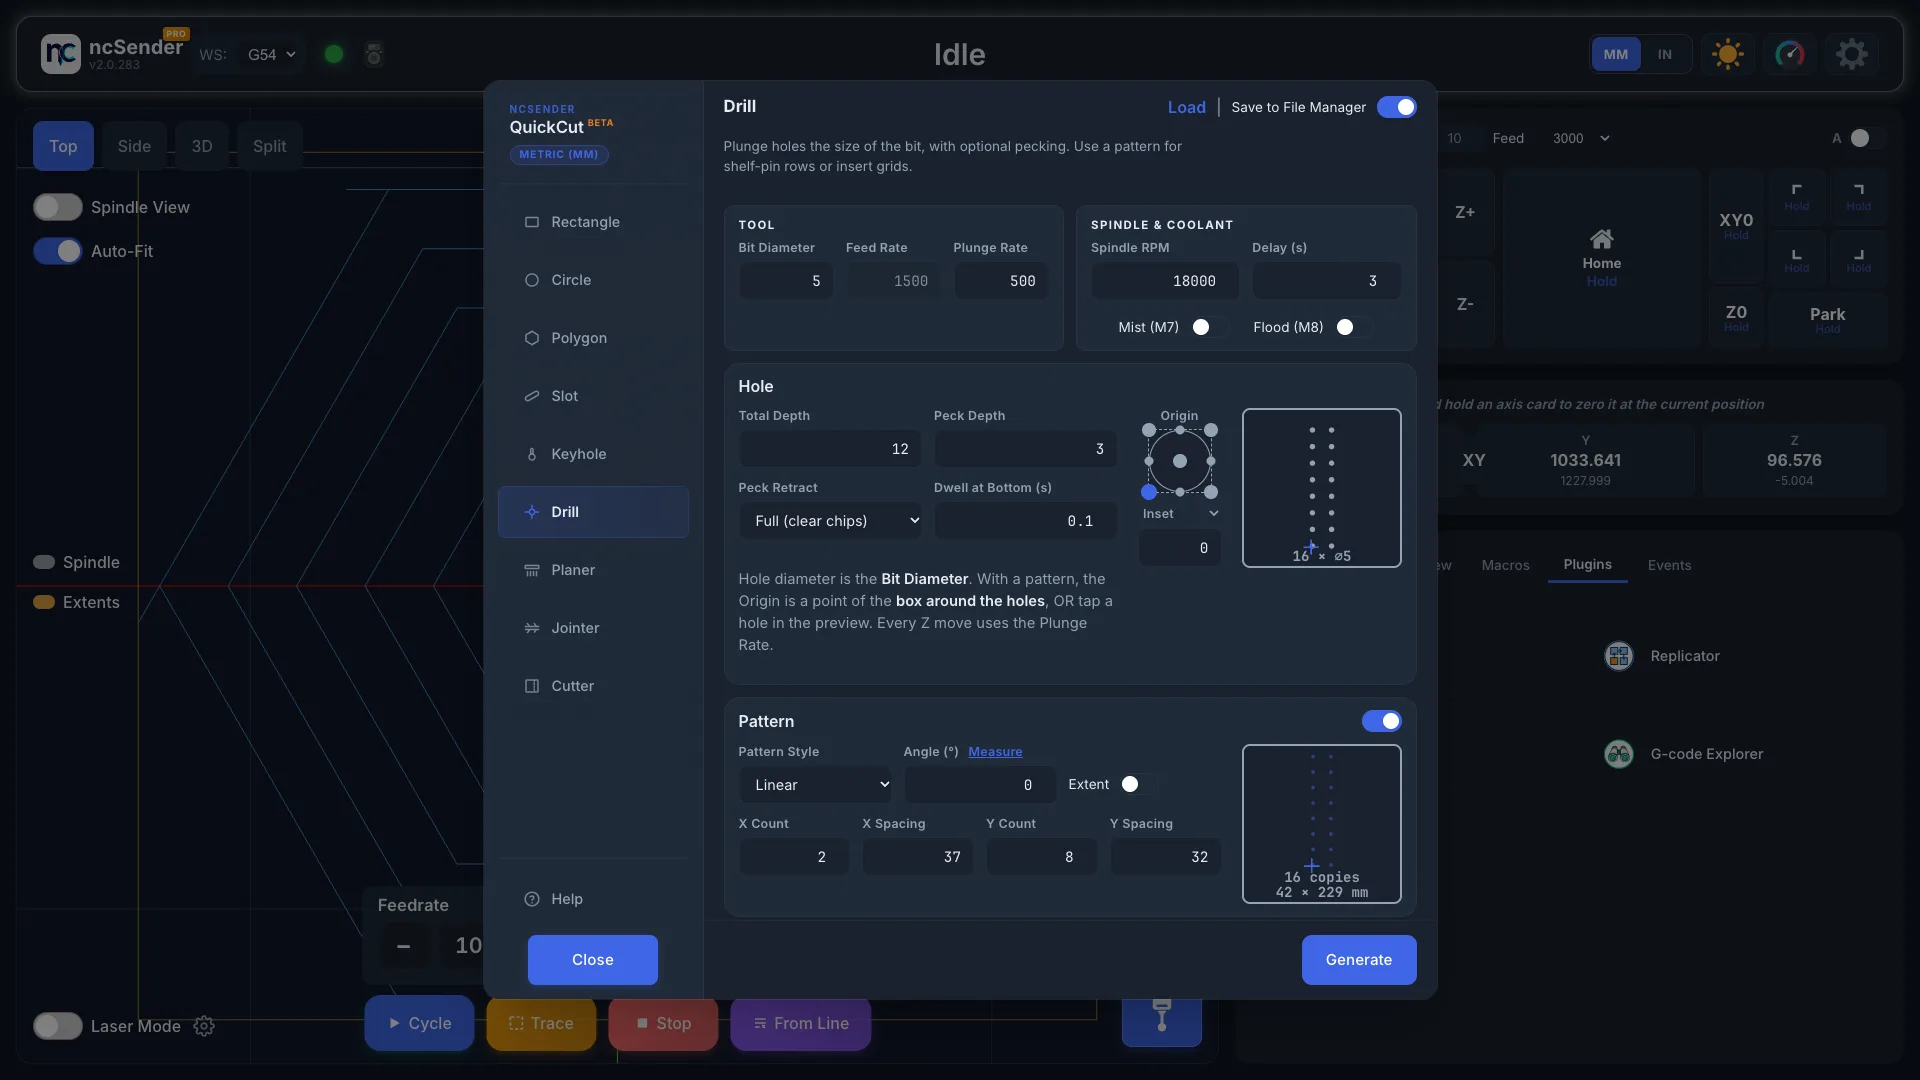
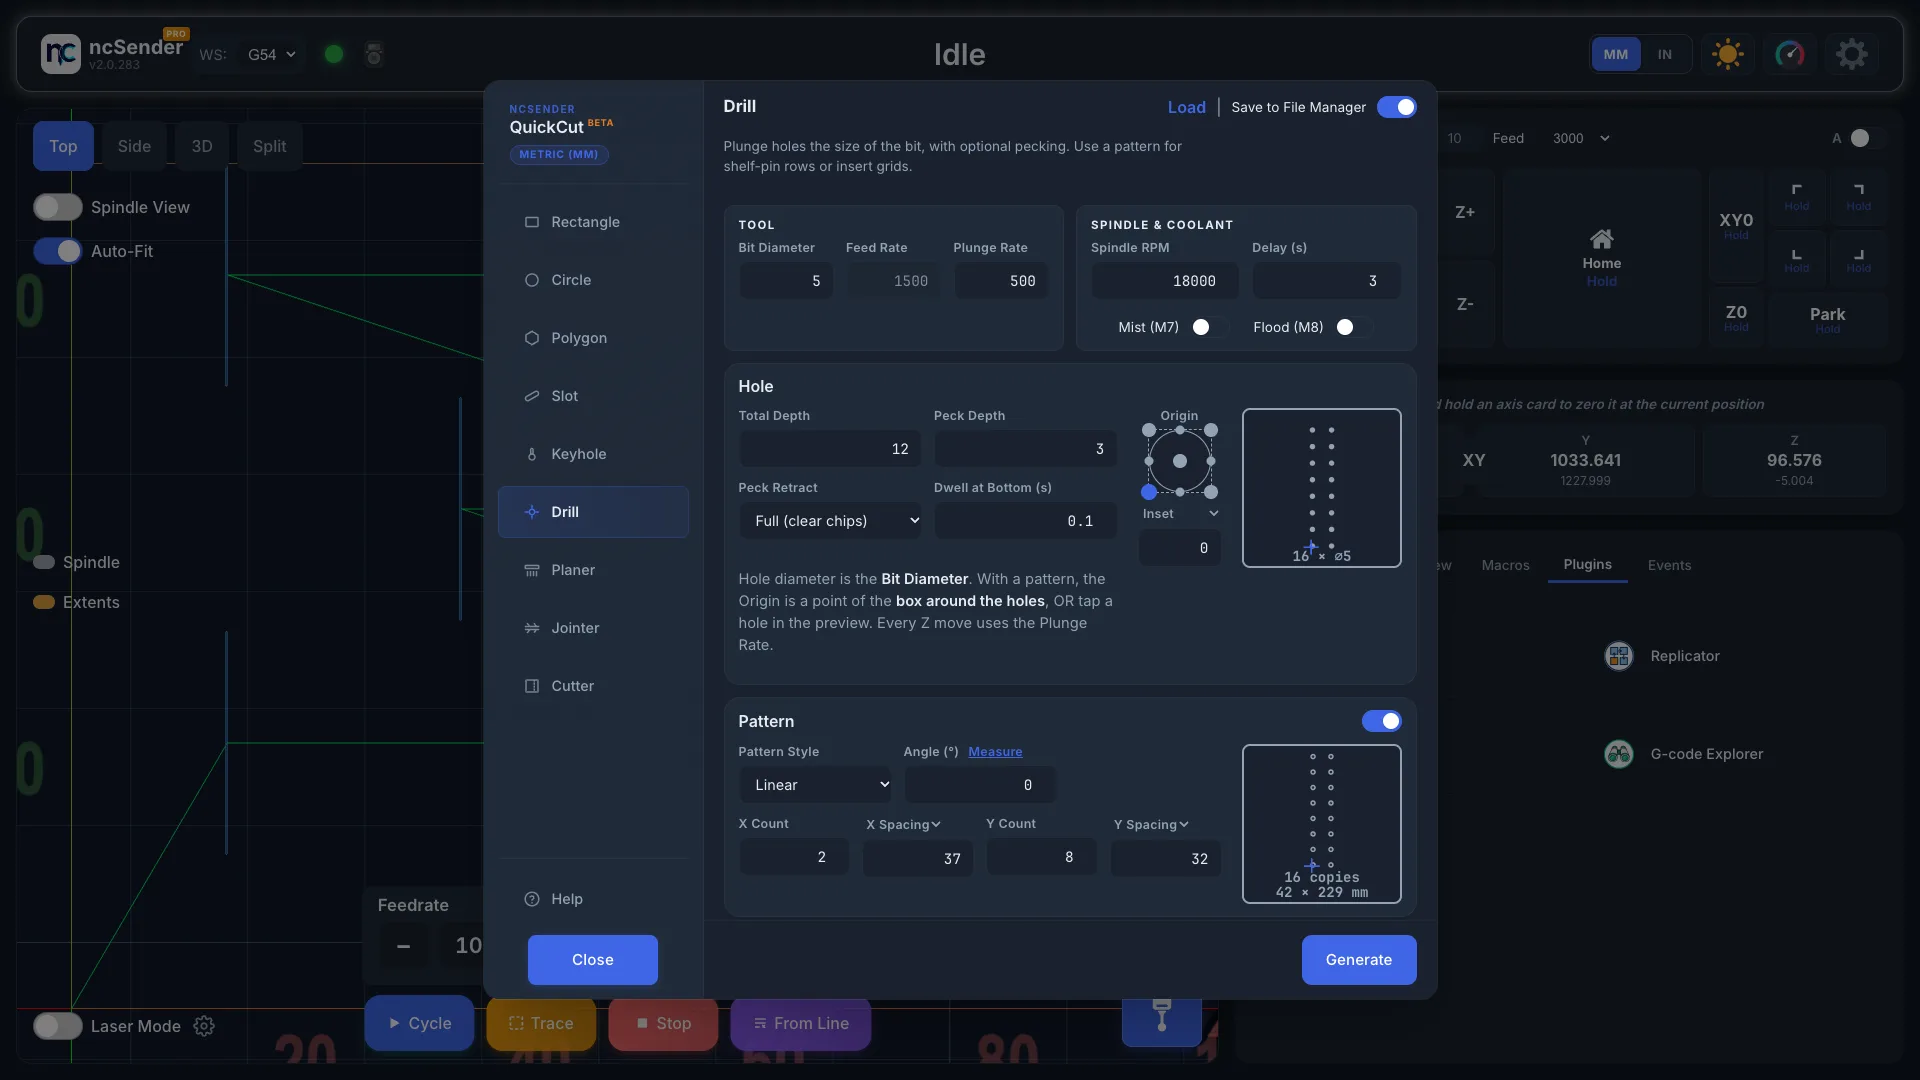
QuickCut: document pattern Gap, the spacing menus and Honeycomb rows
- The X / Y Spacing labels are menus: Spacing, Extent or Gap per direction
  (Grid: Width / Height); the Extent switch is gone
- Gap: the stock left between copies' cuts; Honeycomb Row Gap gives an
  even web
- Honeycomb Y Count and Y Spacing are row by row; v0.1.17 programs load
  the same
- The pattern preview draws each copy like the shape preview and tints
  overlaps
- Screenshots retaken (the Honeycomb one shows Gap)

Claude-Session: https://claude.ai/code/session_01Hf6iZV4QfttXF3t1Lk5qyD

diff --git a/docs/plugins/quickcut.md b/docs/plugins/quickcut.md
@@ -197,23 +197,47 @@ Turn on **Pattern** to cut several copies in one program, then pick a
 number of copies and the overall size as you type; drag it to turn the
 pattern.
 
+The preview draws each copy like the shape preview: the part or hole tinted,
+its edge solid, the bit's other edge dashed and the bit's path hatched. Every
+copy keeps its own outline, so you can see the stock left between them. Where
+copies overlap, the overlap is tinted yellow: holes running into each other, or
+an Outer cut eating into the next part.
+
 | Pattern Style | Layout | Fields |
 |---|---|---|
 | **Linear** | Rows and columns | **X Count**, **X Spacing**, **Y Count**, **Y Spacing**. Use a negative spacing to go the other way. |
-| **Honeycomb** | Rows shifted by half a step, like a honeycomb | Same as Linear, plus **Symmetric Ends** |
+| **Honeycomb** | Every other row shifted by half a step, like a honeycomb | Same as Linear, plus **Symmetric Ends**. **Y Count** and **Y Spacing** are row by row, shifted rows included. |
 | **Circular (Identical)** | Around a circle, every copy facing the same way | **Count**, **Radius**, **Start Angle (°)**, **Total Angle (°)** |
 | **Circular (Path Direction)** | Around a circle, each copy turned to follow the circle | **Count**, **Radius**, **Start Angle (°)**, **Total Angle (°)** |
 
 **Symmetric Ends** drops one copy from each shifted row so both ends of the
-honeycomb line up.
+honeycomb line up. A Honeycomb starts with an unshifted row, so an even
+**Y Count** ends on a shifted one. The same Y Count and Y Spacing give the same
+rows as Linear, so switching between the two only shifts every other row.
+Programs from QuickCut v0.1.17, which counted and spaced only the unshifted
+rows, load with the same layout.
 
-**Extent**: turn it on to give the distance from the first copy's centre to
-the last instead of the spacing between neighbours. The copies are spread
-evenly over it: 5 copies over 400 mm are 100 mm apart.
+The **X Spacing** and **Y Spacing** labels are menus, like Polygon's size, so
+each direction can be given its own way:
+
+| Pick | The number is |
+|---|---|
+| **Spacing** | Centre to centre between neighbouring copies. |
+| **Extent** | From the first copy's centre to the last; the copies spread evenly over it, so 5 copies over 400 mm are 100 mm apart. |
+| **Gap** (Linear and Honeycomb) | The stock left between neighbouring copies' cuts at their closest, edge to edge. On an Outer cut that's outside the bit's path. |
+
+Gap is measured on the cuts themselves, so turned shapes and rounded inside
+corners count, and QuickCut works out the spacing that leaves it. Change the
+size, the bit or the cut type and the gap stays the same. On a Honeycomb,
+**Row Gap** is to the nearest copy in the next row, so giving X Gap and Row Gap
+the same number leaves an even wall all round, for example hexagon pockets with
+a 3 mm web. As with Spacing, a negative number runs the copies the other way.
+Switching between Spacing, Extent and Gap converts the number, so the copies
+don't move, and Load restores the choice.
 
 **Angle (°)** turns Linear and Honeycomb rows, counter-clockwise from +X. At an
-angle the fields become **Count**, **Spacing**, **Rows** and **Row Spacing**,
-measured along and across the rows. **Rotate shapes** turns each copy with the
+angle the fields become **Count**, **Spacing**, **Rows** and **Row Spacing**
+(or Extent, Gap), measured along and across the rows. **Rotate shapes** turns each copy with the
 rows. Press **Measure** beside the Angle to take it from the machine (see
 [Measure an angle](#measure-an-angle)).
 
@@ -260,7 +284,9 @@ Origin, Inset, Holding Tabs and Pattern work as on the shapes. On the preview
 you can also tap an end, a corner or the middle of a long side.
 
 The **Grid** pattern, for straight slots, cuts rows and columns of lines that
-span the grid, for example a grid of grooves with the Center line cut.
+span the grid, for example a grid of grooves with the Center line cut. Its
+**Column Spacing** and **Row Spacing** labels are menus too: pick **Width** or
+**Height** to give the grid's overall size instead.
 
 To round over a stock corner, zero on the corner and cut an Arc: Radius = the
 corner radius + the bit radius, Sweep 90, Start Angle facing the corner,
